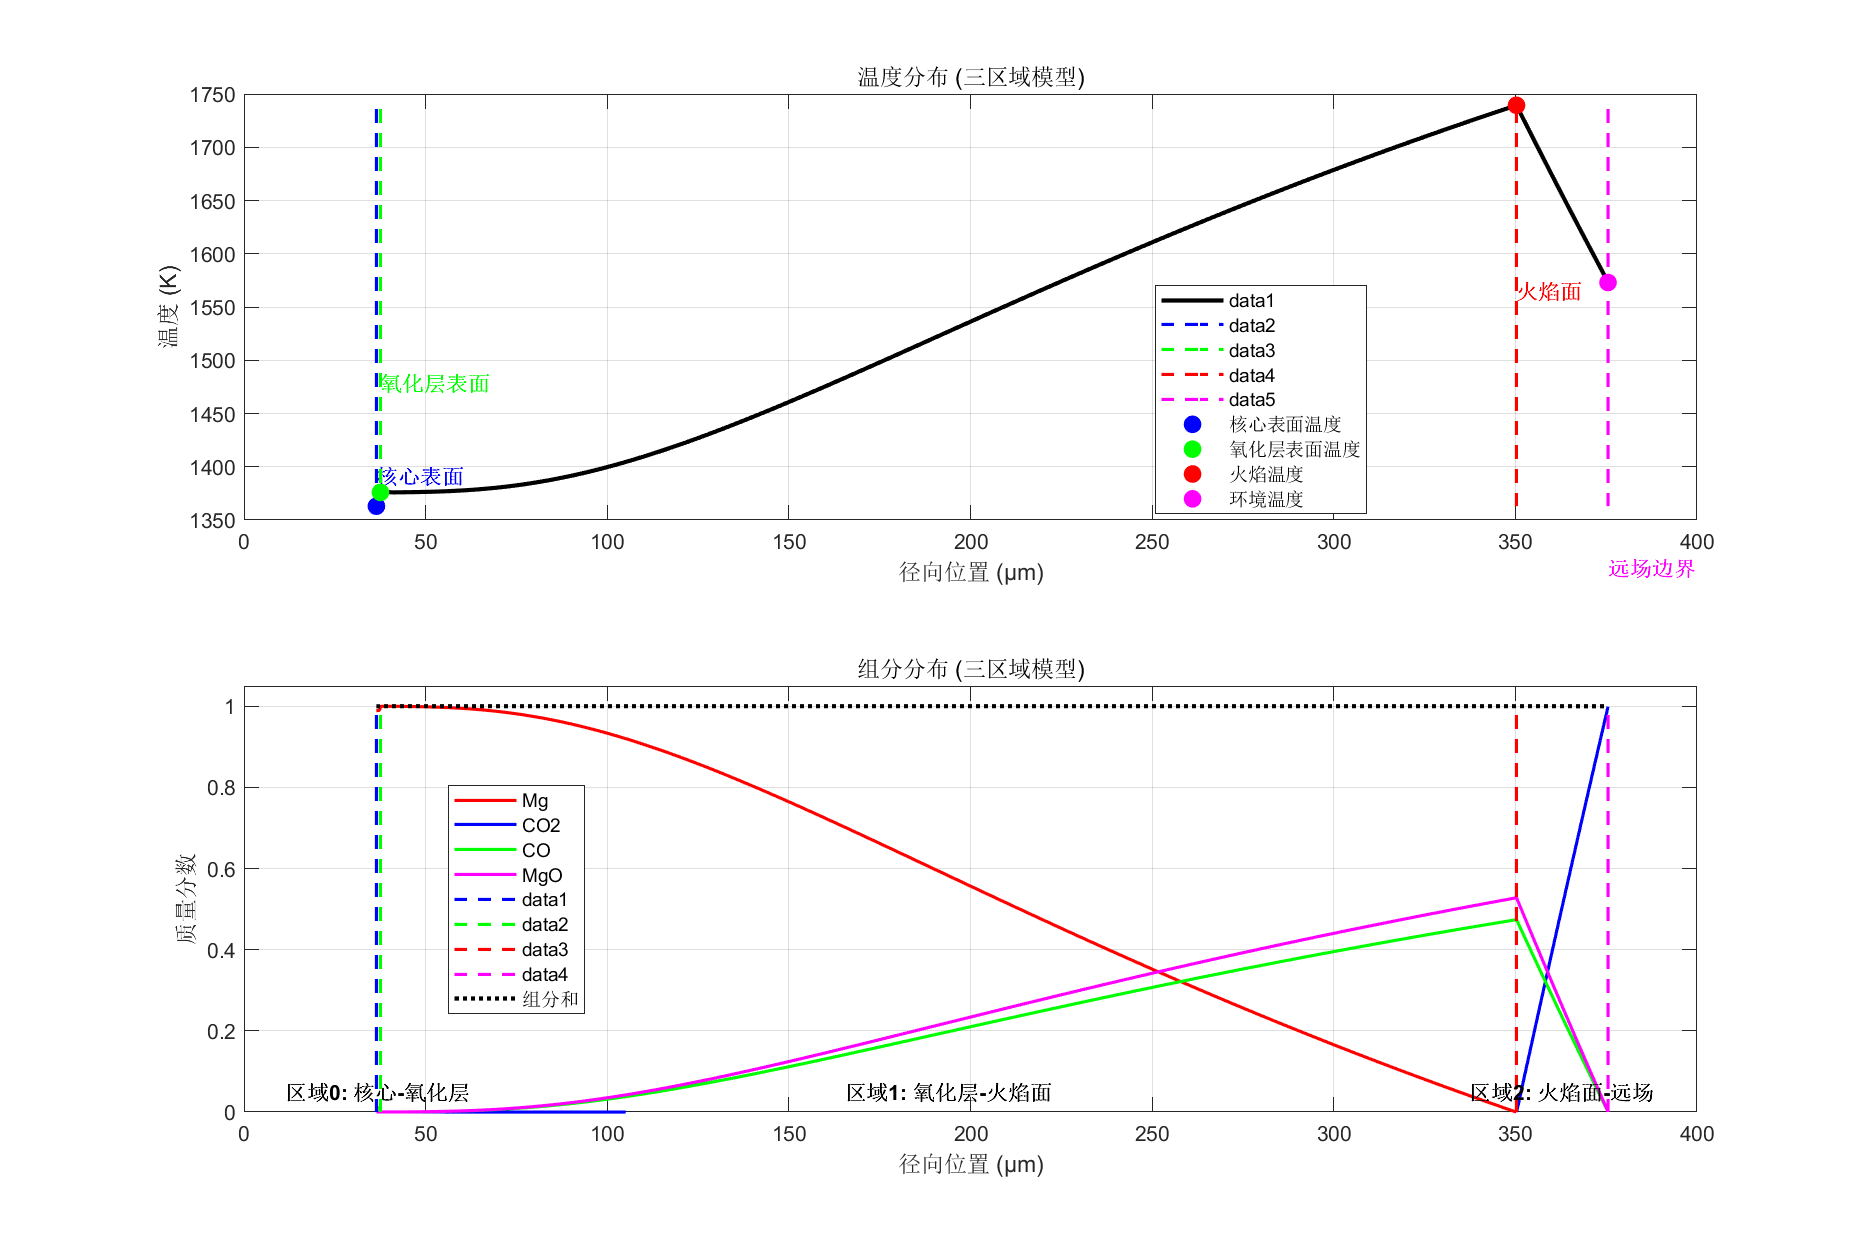
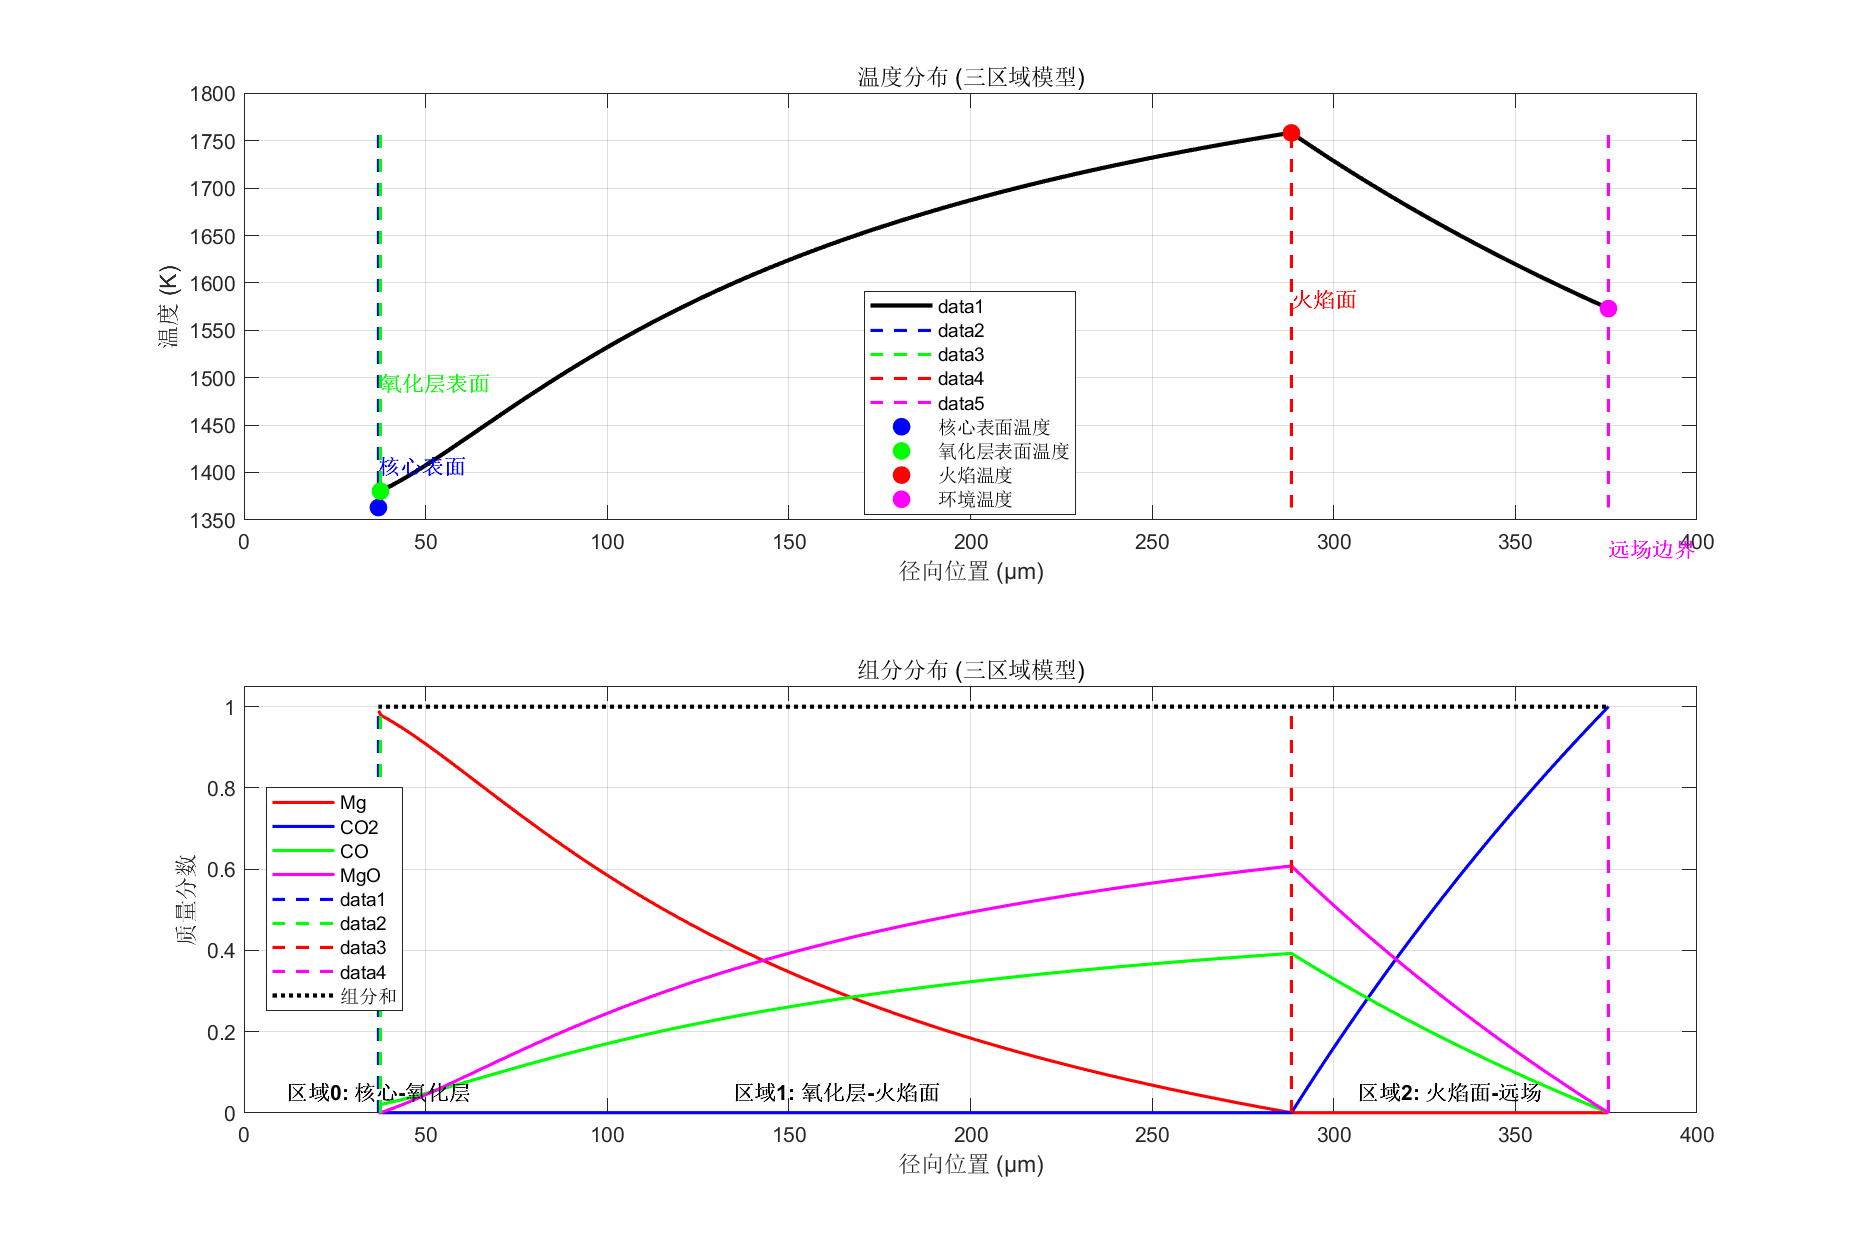
0920
合理参数几乎能完整求解版本 但质量流率过低

diff --git a/particle-branch/solve_vaporization_algebraic.m b/particle-branch/solve_vaporization_algebraic.m
@@ -162,7 +162,7 @@ function rate_info = solve_vaporization_algebraic(bvp_deps, alpha_CO, alpha_MgO,
             %            'FunctionTolerance', 1e-4, 'StepTolerance', 1e-8, 'MaxFunctionEvaluations', 10000, ...
             %            'OutputFcn', @(x,optimValues,state) monitor_progress(x,optimValues,state,solve_env1));
             options1 = optimoptions('fsolve', 'Algorithm', 'levenberg-marquardt', 'Display', 'off', 'MaxIterations', 10000, ...
-                        'FunctionTolerance', 1e-3, 'StepTolerance', 1e-5, 'MaxFunctionEvaluations', 10000, ...
+                        'FunctionTolerance', 2e-3, 'StepTolerance', 1e-4, 'MaxFunctionEvaluations', 10000, ...
                         'OutputFcn', @(x,optimValues,state) monitor_progress(x,optimValues,state,solve_env1));
                     
             % 求解简化模型
@@ -236,7 +236,7 @@ function rate_info = solve_vaporization_algebraic(bvp_deps, alpha_CO, alpha_MgO,
             solve_env2.k_ox_gas = k_ox_gas ;
             % 简化的fsolve选项
             options2 = optimoptions('fsolve', 'Algorithm', 'levenberg-marquardt','Display', 'off', 'MaxIterations', 1000000, ...
-                        'FunctionTolerance', 1e-4, 'StepTolerance', 1e-5, 'MaxFunctionEvaluations', 1000000, ...
+                        'FunctionTolerance', 1e-3, 'StepTolerance', 1e-4, 'MaxFunctionEvaluations', 1000000, ...
                         'OutputFcn', @(x,optimValues,state) monitor_progress(x,optimValues,state,solve_env2));
             
             % 使用阶段1的解作为初值
@@ -312,7 +312,7 @@ function rate_info = solve_vaporization_algebraic(bvp_deps, alpha_CO, alpha_MgO,
             solve_env3.k_ox_gas = k_ox_gas ;
             % 简化的fsolve选项
             options3 = optimoptions('fsolve','Algorithm', 'levenberg-marquardt', 'Display', 'off', 'MaxIterations', 100000, ...
-                        'FunctionTolerance', 1e-4, 'StepTolerance', 1e-5, 'MaxFunctionEvaluations', 100000, ...
+                        'FunctionTolerance', 1e-4, 'StepTolerance', 1e-6, 'MaxFunctionEvaluations', 100000, ...
                         'Algorithm', 'levenberg-marquardt', ...
                         'OutputFcn', @(x,optimValues,state) monitor_progress(x,optimValues,state,solve_env3));
             
@@ -378,7 +378,9 @@ function rate_info = solve_vaporization_algebraic(bvp_deps, alpha_CO, alpha_MgO,
         fprintf('区域特定解析解求解完成。火焰位置: %.3e m (r_f/r_p = %.2f), 蒸发速率: %.3e kg/s\n', ...
             r_f, r_f/r_p, rate_info.dmdt_mg);
         fprintf('火焰温度: %.3e K\n', T_f);
-        %stop;
+        if m_mg / rate_info.dmdt_mg > 0.005
+            fprintf('警告: 蒸发速率与质量不匹配，m_mg/dmdt_mg = %.3e\n', m_mg / rate_info.dmdt_mg);
+        end
         % 在成功求解后添加可选的可视化
         if exitflag3 > 0 && success
             try
@@ -413,7 +415,7 @@ function X0 = generate_initial_guess(m_dot_total,r_f, Pe_m, r_p, r_c,r_inf, T_p,
     % 为所有未知数生成无量纲化的初始猜测向量
     % 注意：无量纲化基准已改为金属核心半径r_c和金属核心温度T_c
     T_f_guess = 2200 ;
-    k = 0.3;
+    k = 0.2;
     % 气体物性的无量纲参数     co2  60 j/mol/k
     % 气体比热估计值 [J/(kg·K)]
     % co2  2000K
@@ -464,7 +466,7 @@ function X0 = generate_initial_guess(m_dot_total,r_f, Pe_m, r_p, r_c,r_inf, T_p,
 
     % 组分质量流率相对于总质量流率
         alfa_mg = 1.5;    % Mg比例
-        alfa_co=  -0.2;   % CO比例
+        alfa_co=  -0.8;   % CO比例
         alfa_co2 = 0.0;   % CO2比例
         alfa_mgo = -0.3;  % MgO比例
         m_dot_region1_total = m_dot_total;
@@ -812,7 +814,7 @@ function F = equations_system(X, env)
     % 区域1: Y(r) = (Y_surf - Y_frac) * (exp(Pe_m * ((1/r_p_nd) - (1/r_nd))) - 1) + Y_surf
     % 区域2: Y(r) = (Y_flame - Y_frac) * (exp(Pe_m * ((1/r_f_nd) - (1/r_nd))) - 1) + Y_flame
    
-    k = 0.3;
+    k = 0.15;
     % 提取求解环境
     bvp_deps = env.bvp_deps;
     simplified_mode = env.simplified_mode;
@@ -1051,8 +1053,8 @@ function F = equations_system(X, env)
     F(1) = relaxation * (Y_T_core_nd - 1.0)*10;  % BC 1: 核心表面温度为沸点(无量纲为1.0)
     F(2) = relaxation * (Y_Mg_core - Y_Mg_theory)*5;
     F(3) = relaxation * (Y_T_surf_nd - T_region0_surf)*10;  % 温度连续
-    F(4) = relaxation * (Y_Mg_region0_surf - Y_Mg_surf)*5;  % Mg连续
-    F(5) = relaxation * (Y_CO_region0_surf - Y_CO_surf)*5;  % CO连续
+    F(4) = relaxation * (Y_Mg_region0_surf - Y_Mg_surf)*10;  % Mg连续
+    F(5) = relaxation * (Y_CO_region0_surf - Y_CO_surf)*10;  % CO连续
     F(6) = relaxation * Y_MgO_surf*10 ;  % 氧化层内无MgO气态组分
     F(7) = relaxation * Y_CO2_surf ;  % 氧化层内无CO2气态组分
 
@@ -1201,7 +1203,7 @@ function F = equations_system(X, env)
     F(13) = relaxation * Y_MgO_inf;      % 增强MgO约束
     F(14) = relaxation * Y_Mg_inf;      % 强化远场Mg约束
     % F(15) = relaxation * (Y_CO2_inf-1) ;  % 强化远场CO2约束
-    F(15) = relaxation * (Y_CO2_inf-1);  % 强化远场CO2约束
+    F(15) = relaxation * (Y_CO2_inf-1)*20;  % 强化远场CO2约束
     %fprintf('  Y_CO2_inf: %.3e \n', Y_CO2_inf);
     %fprintf('  Y_Mg_flame: %.3e \n', Y_Mg_flame);
     % --- 组4: 火焰面界面条件 (r = r_f) ---
@@ -1218,10 +1220,10 @@ function F = equations_system(X, env)
     F(20) = relaxation * (Y_CO_region1_flame-Y_CO_flame); % 增强组分连续
     % 火焰面组分和为1
     F(21) = relaxation * (Y_CO_flame + Y_MgO_flame + Y_Mg_flame + Y_CO2_flame - 1.0); % 增强组分和约束
-    F(22) = relaxation * (Y_CO2_region1_flame+Y_CO_region1_flame+Y_Mg_region1_flame+Y_MgO_region1_flame-1); % 增强组分和约束
+    F(22) = relaxation * (Y_CO2_region1_flame+Y_CO_region1_flame+Y_Mg_region1_flame+Y_MgO_region1_flame-1)*10; % 增强组分和约束
     % 反应物耗尽
-    F(23) = relaxation * Y_Mg_region1_flame  ; % 强化Mg在火焰面耗尽条件
-    F(24) = relaxation * Y_CO2_flame   ; % 强化火焰面CO2约束
+    F(23) = relaxation * Y_Mg_region1_flame*10; % 强化Mg在火焰面耗尽条件
+    F(24) = relaxation * Y_CO2_flame *20  ; % 强化火焰面CO2约束
     
     % 火焰面能量守恒
         
@@ -1268,7 +1270,7 @@ function F = equations_system(X, env)
     % 原有方程
     F(27) = relaxation * (molar_ratio_Mg - molar_ratio_CO_total); %
     F(28) = relaxation * (molar_ratio_Mg + molar_ratio_CO2); % 
-    F(29) = relaxation * (Y_Mg_region0_surf + Y_CO_region0_surf - 1 )*10; % 
+    F(29) = relaxation * (Y_Mg_region0_surf + Y_CO_region0_surf - 1 )*30; % 
  
     %F(30) = relaxation * (Y_Mg_region0_surf+Y_CO_region0_surf - 1) * 20;  
     F(30) = relaxation * (Y_Mg_core + Y_CO_core - 1)*10 ; % 原来是F(34)

diff --git a/particle-branch/VaporizationODE.m b/particle-branch/VaporizationODE.m
@@ -150,12 +150,7 @@ classdef VaporizationODE < handle
         function dydt = vaporization_ode(obj, t, y, solver, T_p_const)
             % 气相燃烧阶段ODE系统右侧函数
             % y(1)=m_mg, y(2)=m_mgo, y(3)=m_c, y(4)=r_c, y(5)=r_p, y(6)=T_p
-            
-            % 为防止数值问题，增加保护性判断
-            if y(1) < 1e-15 || y(4) < 1e-9 || y(5) < 1e-9
-                dydt = zeros(6,1);
-                return;
-            end
+  
 
             % 1. 从当前状态向量y构建一个临时的ParticleState对象
             tempState = obj.build_temp_state_from_vector(y, T_p_const);
@@ -212,13 +207,13 @@ classdef VaporizationODE < handle
 
             % 核心半径变化率 (基于Mg消耗)
             dVdt_mg = dmdt_mg / rho_mg;
-            drc_dt = dVdt_mg / (4 * pi * y(4)^2 + eps);
+            drc_dt = dVdt_mg / (4 * pi * y(4)^2 );
 
             % 外部颗粒半径变化率 (基于产物沉积)
             dVdt_mgo = dmdt_mgo / rho_mgo;
             dVdt_c = dmdt_c / rho_c;
             dVdt_product_deposition = dVdt_mgo + dVdt_c;
-            drp_dt = dVdt_product_deposition / (4 * pi * y(5)^2 + eps);
+            drp_dt = dVdt_product_deposition / (4 * pi * y(5)^2 );
 
             % 4. 组合成完整的导数向量
             dydt = [dmdt_mg; dmdt_mgo; dmdt_c; drc_dt; drp_dt; dTp_dt];
@@ -239,7 +234,7 @@ classdef VaporizationODE < handle
             % 核心半径变化率
             rho_mg = obj.params.materials.Mg.density_low;
             dVdt_mg = dydt(1) / rho_mg;
-            dydt(4) = dVdt_mg / (4 * pi * y(4)^2 + eps); % r_c变化率
+            dydt(4) = dVdt_mg / (4 * pi * y(4)^2 ); % r_c变化率
             
             % 外部半径变化率
             rho_mgo = obj.params.materials.MgO.density;
@@ -247,7 +242,7 @@ classdef VaporizationODE < handle
             dVdt_mgo = dydt(2) / rho_mgo;
             dVdt_c = dydt(3) / rho_c;
             dVdt_product_deposition = dVdt_mgo + dVdt_c;
-            dydt(5) = dVdt_product_deposition / (4 * pi * y(5)^2 + eps); % r_p变化率
+            dydt(5) = dVdt_product_deposition / (4 * pi * y(5)^2 ); % r_p变化率
             
             % 温度变化率计算
             if isfield(rate_info, 'heat_ox')
